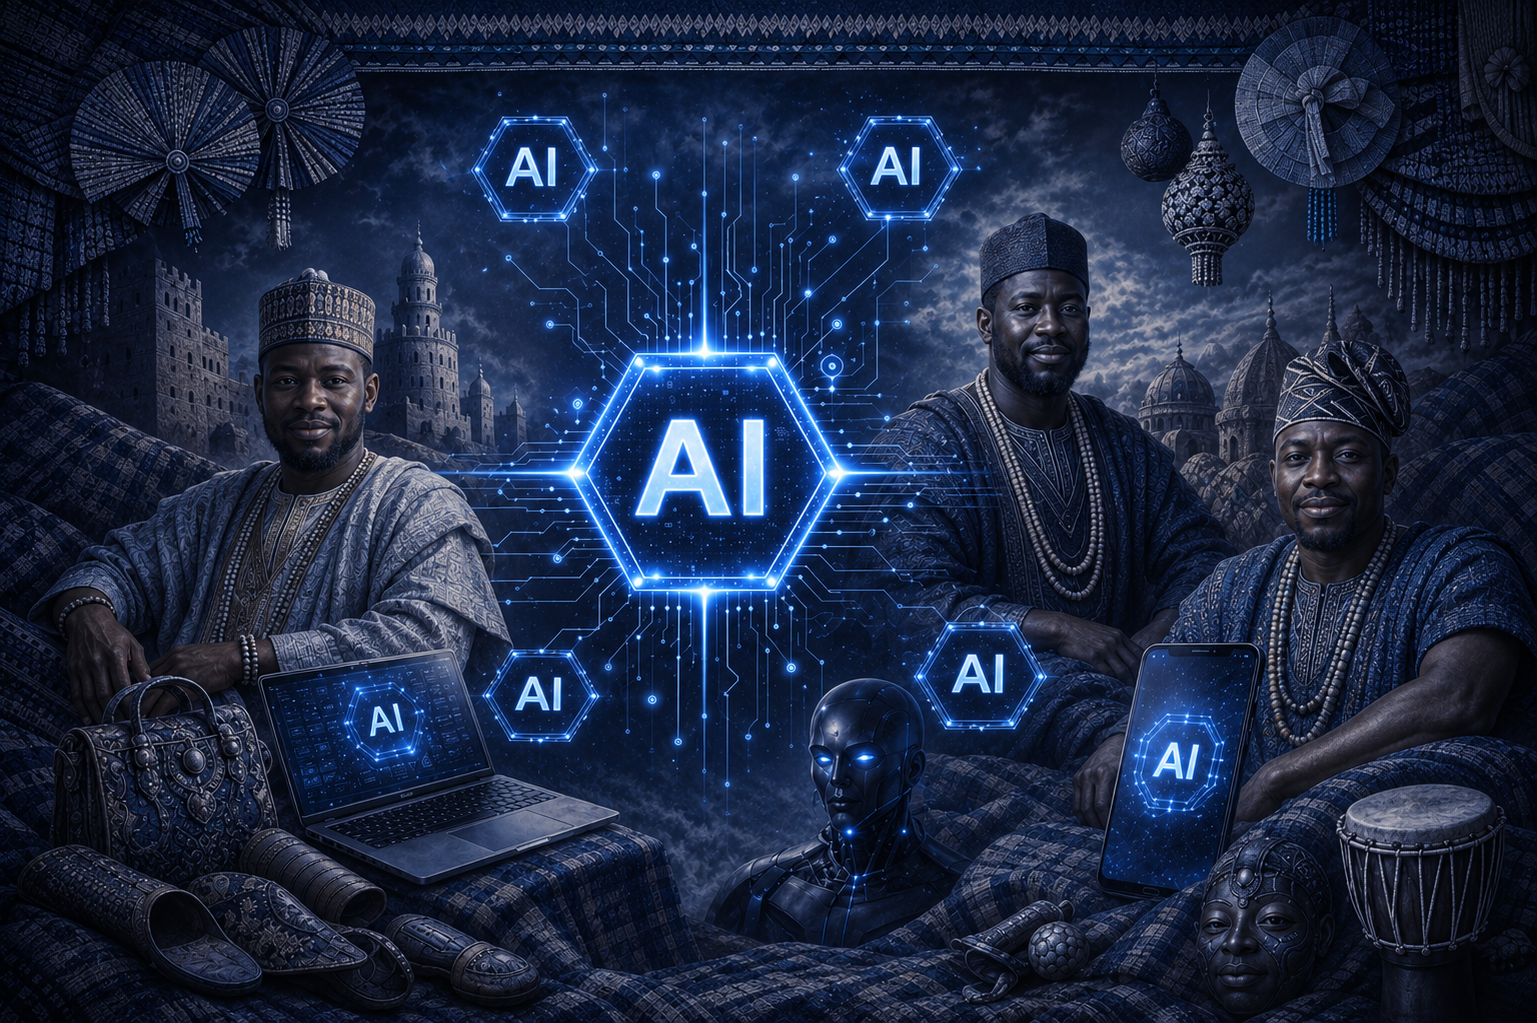
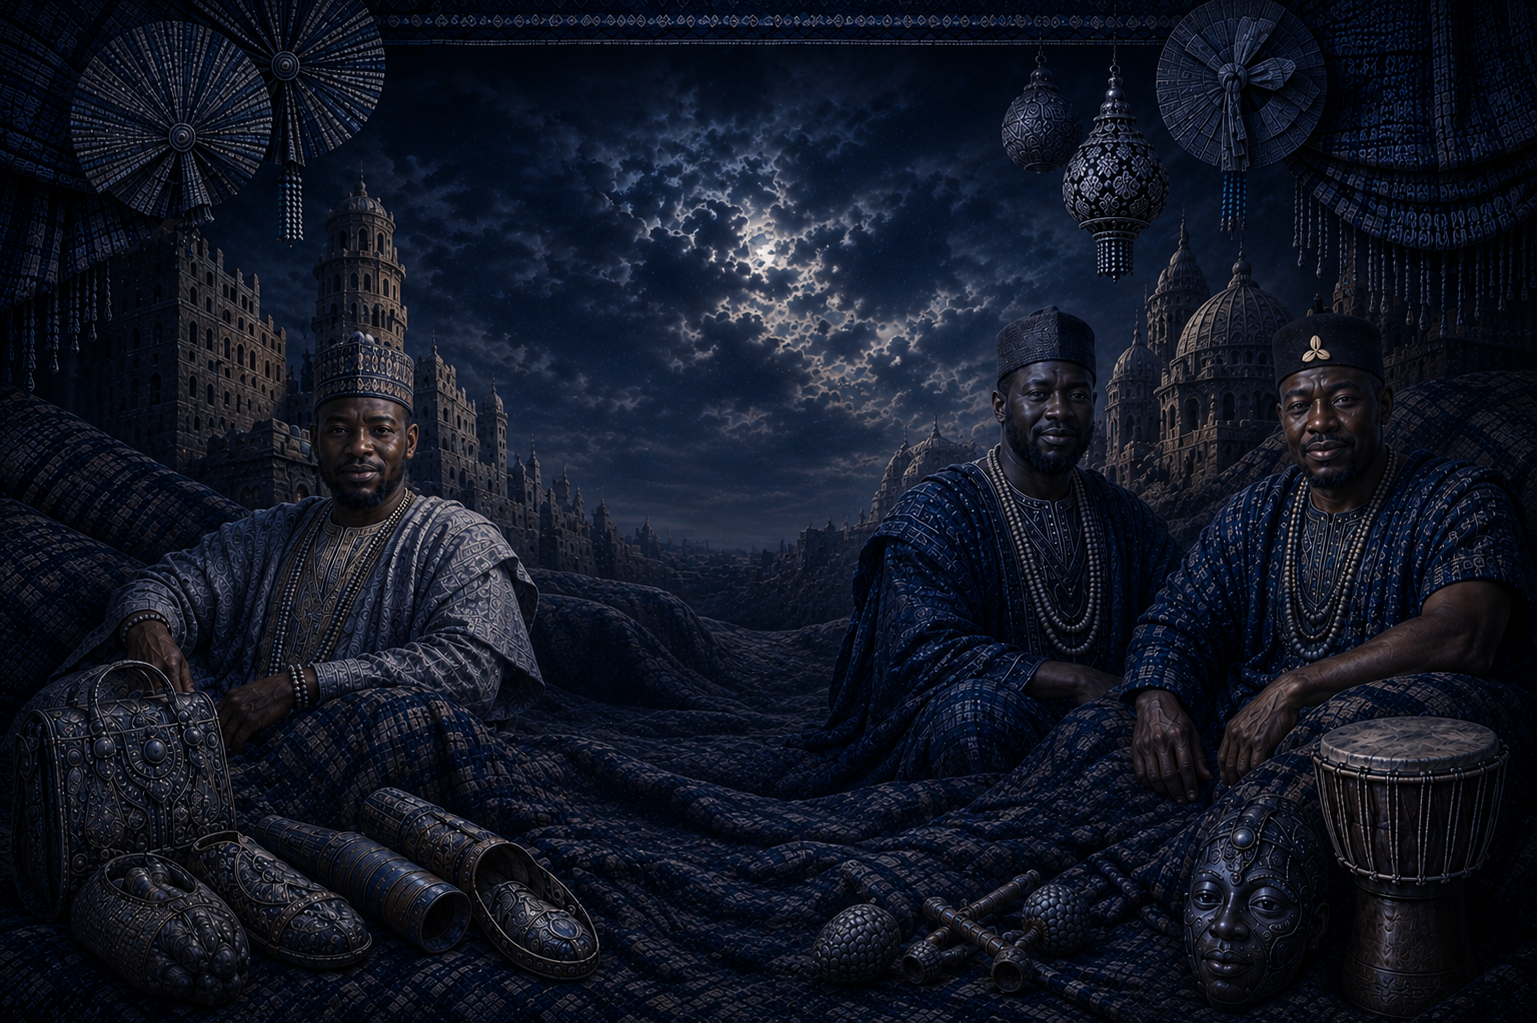
fix(chat): cleanly render AI markdown (bullets, tables, italics)

diff --git a/app/lib/parseMarkdown.tsx b/app/lib/parseMarkdown.tsx
@@ -9,6 +9,7 @@ type ParsedSegment =
   | { type: "bold"; text: string }
   | { type: "inline-code"; text: string }
   | { type: "list"; ordered: boolean; items: string[] }
+  | { type: "table"; headers: string[]; rows: string[][] }
   | { type: "paragraph"; text: string };
 
 function parseInline(text: string): React.ReactNode[] {
@@ -46,8 +47,21 @@ function parseInline(text: string): React.ReactNode[] {
       continue;
     }
 
-    // No more patterns found, push remaining text
-    parts.push(remaining);
+    // Italic
+    const italicMatch = remaining.match(/^(.*?)\*([^*\n]+)\*/);
+    if (italicMatch) {
+      if (italicMatch[1]) parts.push(parseInline(italicMatch[1]));
+      parts.push(
+        <em key={key++} className="italic">
+          {italicMatch[2]}
+        </em>,
+      );
+      remaining = remaining.slice(italicMatch[0].length);
+      continue;
+    }
+
+    // No more patterns found, push remaining text (stripping residual markers)
+    parts.push(remaining.replace(/\*+/g, "").trim());
     break;
   }
 
@@ -102,11 +116,39 @@ function parseBlock(block: string): ParsedSegment[] {
       continue;
     }
 
-    // Unordered list: - item
-    if (line.match(/^\s*-\s+/)) {
+    // Table: | a | b |
+    if (line.startsWith("|")) {
+      const tableLines: string[] = [line];
+      let j = i + 1;
+      while (j < lines.length && lines[j].trim().startsWith("|")) {
+        tableLines.push(lines[j]);
+        j++;
+      }
+      if (tableLines.length >= 2 && /^\s*\|[\s:\-|]+\|\s*$/.test(tableLines[1])) {
+        const splitRow = (r: string) =>
+          r
+            .trim()
+            .replace(/^\|/, "")
+            .replace(/\|$/, "")
+            .split("|")
+            .map((cell) => cell.trim());
+        const headers = splitRow(tableLines[0]);
+        const rows = tableLines
+          .slice(2)
+          .filter((r) => r.trim() !== "")
+          .map(splitRow)
+          .filter((r) => r.some((c) => c !== ""));
+        segments.push({ type: "table", headers, rows });
+        i = j;
+        continue;
+      }
+    }
+
+    // Unordered list: - item, * item, + item
+    if (line.match(/^\s*[-*+]\s+/)) {
       const items: string[] = [];
-      while (i < lines.length && lines[i].match(/^\s*-\s+/)) {
-        items.push(lines[i].replace(/^\s*-\s+/, ""));
+      while (i < lines.length && lines[i].match(/^\s*[-*+]\s+/)) {
+        items.push(lines[i].replace(/^\s*[-*+]\s+/, ""));
         i++;
       }
       segments.push({ type: "list", ordered: false, items });
@@ -140,7 +182,8 @@ function parseBlock(block: string): ParsedSegment[] {
       i < lines.length &&
       lines[i].trim() !== "" &&
       !lines[i].match(/^(#{1,6})\s+/) &&
-      !lines[i].match(/^\s*-\s+/) &&
+      !lines[i].startsWith("|") &&
+      !lines[i].match(/^\s*[-*+]\s+/) &&
       !lines[i].match(/^\s*\d+\.\s+/) &&
       !lines[i].match(/^```/)
     ) {
@@ -209,10 +252,63 @@ function renderSegments(segments: ParsedSegment[]): React.ReactNode[] {
               seg.ordered ? "list-decimal" : "list-disc"
             } list-inside text-slate-800 dark:text-slate-200`}
           >
-            {seg.items.map((item, i) => (
-              <li key={i}>{parseInline(item)}</li>
-            ))}
+            {seg.items.map((item, i) => {
+              const defMatch = item.match(/^\*\*(.+?)\*\*\s*[:：\-–—]\s*(.+)$/);
+              if (defMatch) {
+                return (
+                  <li key={i}>
+                    <strong>{defMatch[1]}</strong>
+                    {defMatch[2] ? ` ${defMatch[2]}` : ""}
+                  </li>
+                );
+              }
+              return <li key={i}>{parseInline(item)}</li>;
+            })}
           </ListTag>
+        );
+
+      case "table":
+        return (
+          <div
+            key={idx}
+            className="my-3 overflow-x-auto rounded-lg border border-slate-200 dark:border-slate-700"
+          >
+            <table className="w-full text-sm leading-relaxed border-collapse">
+              <thead>
+                <tr className="bg-slate-100 dark:bg-slate-800 text-left">
+                  {seg.headers.map((h, i) => (
+                    <th
+                      key={i}
+                      className="px-3 py-2 font-semibold text-slate-900 dark:text-white border-b border-slate-200 dark:border-slate-700"
+                    >
+                      {parseInline(h)}
+                    </th>
+                  ))}
+                </tr>
+              </thead>
+              <tbody>
+                {seg.rows.map((row, ri) => (
+                  <tr
+                    key={ri}
+                    className={
+                      ri % 2
+                        ? "bg-slate-50 dark:bg-slate-800/40"
+                        : "bg-white dark:bg-slate-900/20"
+                    }
+                  >
+                    {row.map((cell, ci) => (
+                      <td
+                        key={ci}
+                        className="px-3 py-2 text-slate-800 dark:text-slate-200 border-b border-slate-100 dark:border-slate-800 align-top"
+                      >
+                        {parseInline(cell)}
+                      </td>
+                    ))}
+                  </tr>
+                ))}
+              </tbody>
+            </table>
+          </div>
         );
 
       case "paragraph":

diff --git a/app/[locale]/components/Navbar/MobileNav.tsx b/app/[locale]/components/Navbar/MobileNav.tsx
@@ -40,7 +40,7 @@ export default function MobileNav({ isOpen, setIsOpen }: MobileNavProps) {
             animate={{ y: 0, opacity: 1 }}
             exit={{ y: -20, opacity: 0 }}
             transition={{ duration: 0.25, ease: "easeInOut" }}
-            className="absolute top-20 right-0 w-full bg-white dark:bg-slate-900 shadow-lg border-t border-gray-200 dark:border-slate-700 z-50 md:hidden"
+            className="absolute top-14.5 right-0 w-full bg-white dark:bg-slate-900 shadow-lg border-b border-gray-200 dark:border-slate-700 z-50 md:hidden"
           >
             <div className="px-6 py-6 flex flex-col space-y-5">
               {/* Navigation Links */}
@@ -59,7 +59,7 @@ export default function MobileNav({ isOpen, setIsOpen }: MobileNavProps) {
               ))}
 
               {/* CTA Button */}
-              <motion.button
+              {/* <motion.button
                 onClick={() => goToAuth()}
                 whileHover={{ scale: 1.05, y: -2 }}
                 whileTap={{ scale: 0.98 }}
@@ -67,7 +67,7 @@ export default function MobileNav({ isOpen, setIsOpen }: MobileNavProps) {
                 className="mt-3 bg-indigo-300 dark:bg-indigo-600 text-slate-800 dark:text-white px-4 py-2 font-semibold rounded-lg shadow-md hover:bg-indigo-200 dark:hover:bg-indigo-500 transition"
               >
                 {tCTA("primary")}
-              </motion.button>
+              </motion.button> */}
             </div>
           </motion.nav>
         </>

diff --git a/app/api/chat/route.ts b/app/api/chat/route.ts
@@ -2,6 +2,17 @@
 import OpenAI from "openai";
 import { NextResponse } from "next/server";
 
+const FORMATTING_INSTRUCTIONS = `You are a clear, professional writing assistant. Format every response so it renders cleanly without raw markdown symbols.
+
+Formatting rules:
+- Use "#", "##" (or "###") for section titles and number major sections (1., 2., 3., ...).
+- Use "-" dash bullets for lists of related facts.
+- Use "1.", "2.", ... numbered lists for steps, timelines, or ordering.
+- Use markdown tables ("| col | col |" with a "| --- | --- |" separator line) ONLY for chronological comparisons or side-by-side data.
+- For a term followed by its definition in a list, write: "- **Term**: explanation".
+- Never output stray "*", "**", "~~", or ">" characters as decorative markers. Only use them where a rule above demands them.
+- Write in the same language the user uses. Keep it structured, accurate, and concise.`;
+
 // Lazy initialization to avoid build-time errors
 let openai: OpenAI | null = null;
 
@@ -33,7 +44,10 @@ export async function POST(req: Request) {
     // Create GPT-5 streaming response
     const response = await getOpenAIClient().chat.completions.create({
       model: "gpt-4", // Use gpt-4 for now
-      messages: [{ role: "user", content: message }],
+      messages: [
+        { role: "system", content: FORMATTING_INSTRUCTIONS },
+        { role: "user", content: message },
+      ],
       stream: true,
     });
 
